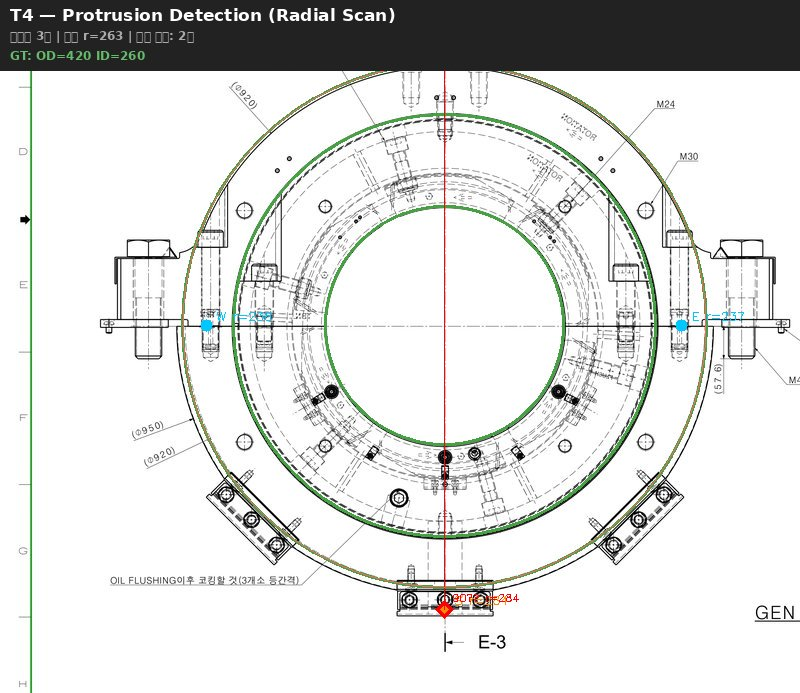
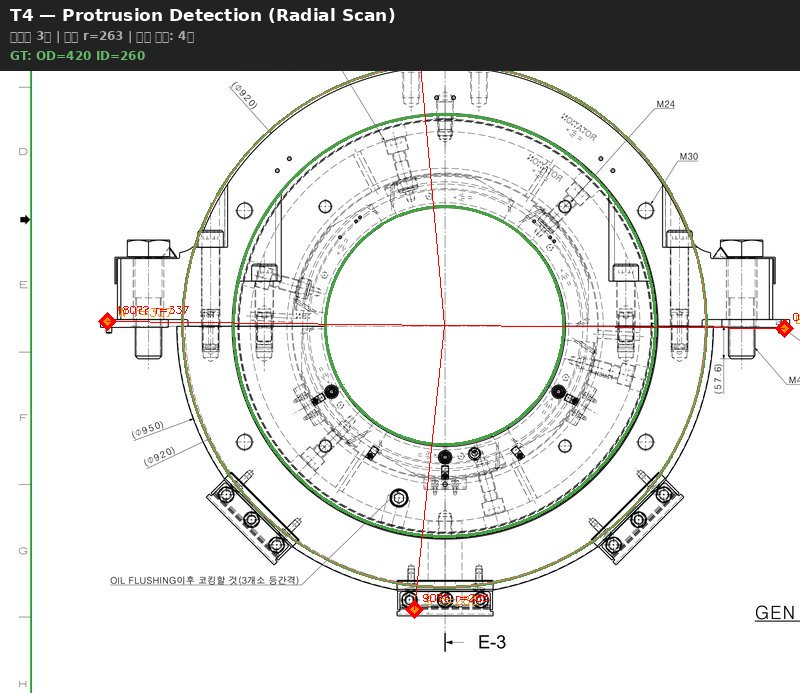
fix: 돌출부 E/W 검출 수정 — sweep ±30px + 커널 3x3
E/W 플랜지가 외원 안쪽으로 잡히던 문제 수정:
- OPEN 커널 5x5→3x3 (플랜지 구조 유지)
- 각 방향 ±30px sweep으로 최대치 탐색
- N 방향 max_scan_r=outer_r×1.3 제한 (보조도 방지)
결과: 4방향 전부 돌출로 정상 검출.

Changed region(s): [[0.125, 0.1515, 0.625, 0.7576], [0.6875, 0.4545, 1.0, 0.4848], [0.5, 0.8485, 0.6562, 0.9091]]

diff --git a/blueprint-ai-bom/scripts/generate_protrusion_detect.py b/blueprint-ai-bom/scripts/generate_protrusion_detect.py
@@ -74,11 +74,16 @@ def detect_concentric_alt(gray, min_r, max_r):
     return circles
 
 
-def cardinal_max_scan(gray, cx, cy, outer_r, max_scan_r=None):
+def cardinal_max_scan(gray, cx, cy, outer_r, max_scan_r=None, sweep_px=30):
     """동서남북 4방향 최대 solid 범위 스캔
 
     원 중심에서 N/S/E/W 각 방향으로 이진화 solid를 스캔하여
     가장 먼 solid 픽셀 = 해당 방향의 형상 최대치.
+
+    개선:
+    - E/W: 수평선 ±sweep_px 범위에서 최대치 탐색 (플랜지 누락 방지)
+    - N/S: 수직선 ±sweep_px 범위에서 최대치 탐색
+    - max_scan_r: 외원 × 1.3으로 제한 (보조도 진입 방지)
 
     Returns:
         radial_profile: [(angle_deg, max_r, x, y), ...] (4개)
@@ -86,46 +91,67 @@ def cardinal_max_scan(gray, cx, cy, outer_r, max_scan_r=None):
     """
     h, w = gray.shape
     if max_scan_r is None:
-        max_scan_r = int(outer_r * 2.0)
+        max_scan_r = int(outer_r * 1.3)
 
     _, binary = cv2.threshold(gray, 0, 255,
                               cv2.THRESH_BINARY_INV + cv2.THRESH_OTSU)
-    kernel = cv2.getStructuringElement(cv2.MORPH_ELLIPSE, (5, 5))
+    # 작은 커널(3x3)로 미세 노이즈만 제거, 플랜지 구조는 유지
+    kernel = cv2.getStructuringElement(cv2.MORPH_ELLIPSE, (3, 3))
     solid = cv2.morphologyEx(binary, cv2.MORPH_OPEN, kernel)
 
+    # (방향, 주축dx, 주축dy)
     directions = [
-        ("N", 0, -1),   # 위
-        ("S", 0, 1),    # 아래
-        ("E", 1, 0),    # 오른쪽
-        ("W", -1, 0),   # 왼쪽
+        ("N", 0, -1),
+        ("S", 0, 1),
+        ("E", 1, 0),
+        ("W", -1, 0),
     ]
     angle_map = {"E": 0, "S": 90, "W": 180, "N": 270}
 
     radial_profile = []
 
     for dir_name, dx, dy in directions:
-        max_r = 0
-        max_x, max_y = int(cx), int(cy)
-        consecutive_empty = 0
+        best_r = 0
+        best_x, best_y = int(cx), int(cy)
 
-        for r_px in range(1, max_scan_r):
-            px = int(cx + r_px * dx)
-            py = int(cy + r_px * dy)
-            if 0 <= px < w and 0 <= py < h:
-                if solid[py, px] > 0:
-                    max_r = r_px
-                    max_x, max_y = px, py
-                    consecutive_empty = 0
+        # 수직 방향(N/S) → 수평 sweep, 수평 방향(E/W) → 수직 sweep
+        for offset in range(-sweep_px, sweep_px + 1):
+            scan_r = 0
+            scan_x, scan_y = int(cx), int(cy)
+            consecutive_empty = 0
+
+            for r_px in range(1, max_scan_r):
+                if dx == 0:
+                    # N/S: 주축=수직, sweep=수평 오프셋
+                    px = int(cx + offset)
+                    py = int(cy + r_px * dy)
                 else:
-                    consecutive_empty += 1
-                    if consecutive_empty > 30 and max_r > outer_r:
-                        break
-            else:
-                break
+                    # E/W: 주축=수평, sweep=수직 오프셋
+                    px = int(cx + r_px * dx)
+                    py = int(cy + offset)
 
-        radial_profile.append((angle_map[dir_name], max_r, max_x, max_y))
-        print(f"    {dir_name}: max_r={max_r} ({max_x},{max_y})"
-              f"{' ← 돌출' if max_r > outer_r * 1.05 else ''}")
+                if 0 <= px < w and 0 <= py < h:
+                    if solid[py, px] > 0:
+                        actual_r = int(np.sqrt(
+                            (px - cx) ** 2 + (py - cy) ** 2))
+                        if actual_r > scan_r:
+                            scan_r = actual_r
+                            scan_x, scan_y = px, py
+                        consecutive_empty = 0
+                    else:
+                        consecutive_empty += 1
+                        if consecutive_empty > 30 and scan_r > outer_r:
+                            break
+                else:
+                    break
+
+            if scan_r > best_r:
+                best_r = scan_r
+                best_x, best_y = scan_x, scan_y
+
+        radial_profile.append((angle_map[dir_name], best_r, best_x, best_y))
+        print(f"    {dir_name}: max_r={best_r} ({best_x},{best_y})"
+              f"{' ← 돌출' if best_r > outer_r * 1.05 else ''}")
 
     threshold = outer_r * 1.05
     protrusions = [p for p in radial_profile if p[1] > threshold]
